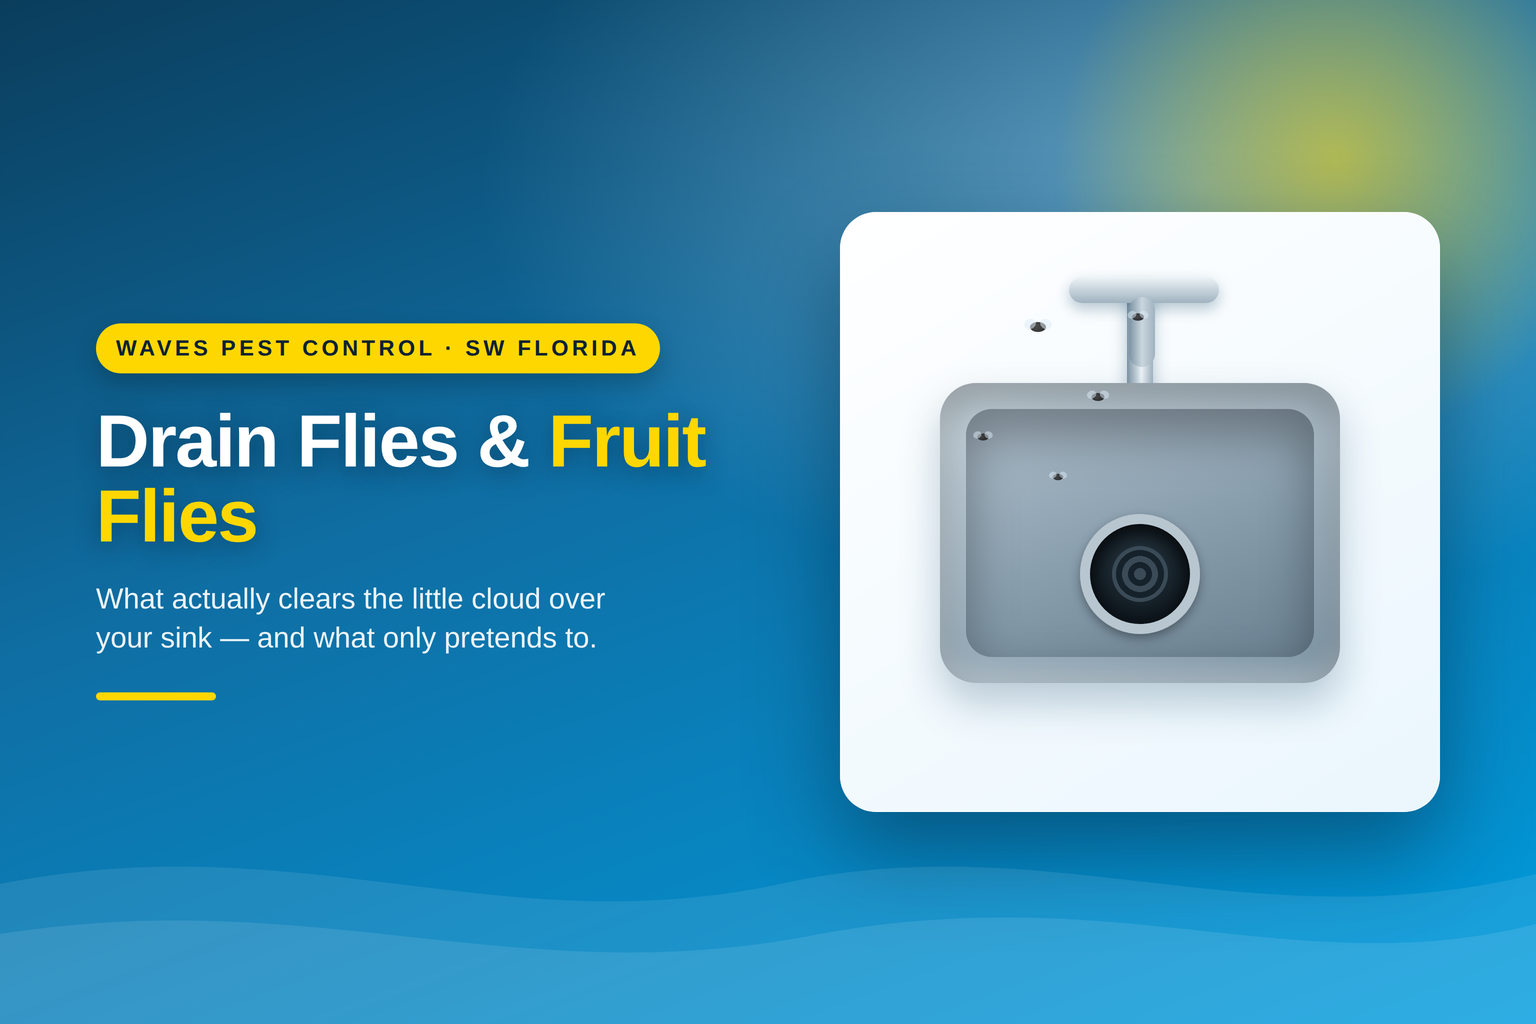
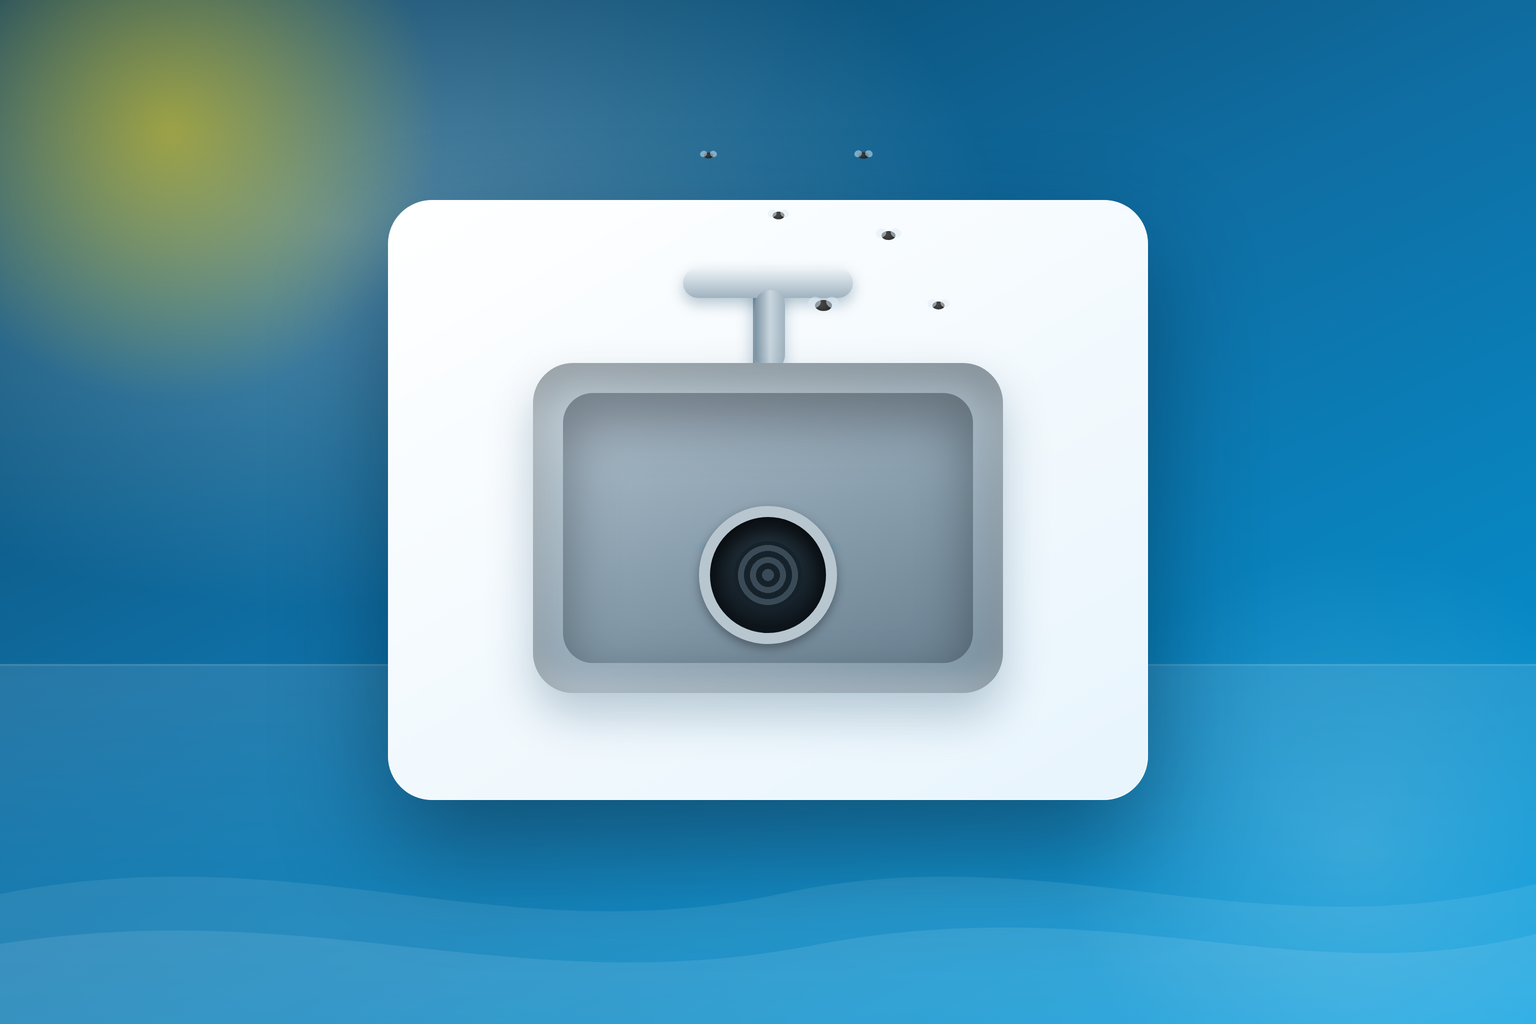
content(blog): address Codex review — compliance, safety, accuracy fixes
Applies the Codex findings on PR #3239:
- P1 remove active-ingredient assertion: genericize citronella to
  "plant/essential oil"; describe the class, not a named ingredient.
- P1 drop blanket "EPA-registered" claim (registration vs. 25b exemption
  is product-specific) — say "still insecticides, read the label".
- P1 remove Waves product-inventory claim ("professional-grade microbial
  product") — describe the approach, not carried inventory.
- P1 soften prevention promise: "never gets going" -> "far less likely".
- P1 add power-isolation safety step before scrubbing a disposal.
- P2 correct caustic-cleaner mechanism (saponifies grease; the real
  limitation is incomplete biofilm contact + hazard, not "flows past").
- P2 meta now distinguishes fruit fly (produce) vs drain fly (biofilm).
- P2 ComparisonTable highlight 1 -> 0 (emphasize the recommended option).
- P2 hero.md records the ACTUAL publisher prompt (no city, bare keyword);
  re-render hero text-free so the alt text matches (accessibility).
- P2 add early calculator CTA in the intro; add a pro-tip callout.
- P3 intro "three pests" -> "four" (matches the ID grid); trim FAQ to 3.

Re-verified locally: schema validator, content guardrails, title/meta
spam gate, comparison-table gate all pass; FAQPage schema still backed by
a visible FAQ section.

Claude-Session: https://claude.ai/code/session_01NNzhgdZ79ZhAjRzJvUmXva

diff --git a/docs/blog-drafts/enzyme-drain-cleaner-drain-flies-fruit-flies.hero.html b/docs/blog-drafts/enzyme-drain-cleaner-drain-flies-fruit-flies.hero.html
@@ -3,99 +3,77 @@
 <head>
 <meta charset="utf-8">
 <style>
-  :root{
-    --blue:#009CDE;
-    --blue-deep:#0a3d5c;
-    --gold:#FFD700;
-    --ink:#0b2233;
-  }
+  :root{--blue:#009CDE;--gold:#FFD700;--ink:#0b2233}
   *{margin:0;padding:0;box-sizing:border-box}
   html,body{width:1536px;height:1024px;overflow:hidden;font-family:-apple-system,BlinkMacSystemFont,"Segoe UI",Roboto,Helvetica,Arial,sans-serif}
-  .stage{
-    position:relative;width:1536px;height:1024px;
+  .stage{position:relative;width:1536px;height:1024px;overflow:hidden;
     background:
-      radial-gradient(1200px 700px at 78% 18%, rgba(255,255,255,.35), rgba(255,255,255,0) 60%),
-      linear-gradient(160deg,#0a3d5c 0%, #0f6ea3 42%, #009CDE 100%);
-    overflow:hidden;
-  }
-  /* soft sun glow */
-  .sun{position:absolute;top:-160px;right:-120px;width:640px;height:640px;border-radius:50%;
-    background:radial-gradient(circle at 50% 50%, rgba(255,215,0,.55), rgba(255,215,0,0) 62%);filter:blur(6px)}
-  /* subtle water ripples bottom */
-  .waves{position:absolute;left:0;right:0;bottom:0;height:320px;opacity:.5}
-  .waves svg{width:100%;height:100%}
-  /* the sink card */
-  .scene{position:absolute;right:96px;top:50%;transform:translateY(-50%);
-    width:600px;height:600px;border-radius:36px;
-    background:linear-gradient(150deg,#ffffff, #eaf6fd);
-    box-shadow:0 40px 90px rgba(4,28,48,.45), inset 0 0 0 1px rgba(255,255,255,.6);
-    display:flex;align-items:center;justify-content:center}
-  .counter{position:relative;width:520px;height:520px}
-  /* stainless basin */
-  .basin{position:absolute;left:50%;top:54%;transform:translate(-50%,-50%);
-    width:400px;height:300px;border-radius:36px;
+      radial-gradient(1100px 640px at 22% 22%, rgba(255,255,255,.30), rgba(255,255,255,0) 60%),
+      linear-gradient(155deg,#0a3d5c 0%, #0f6ea3 44%, #009CDE 100%);}
+  .sun{position:absolute;top:-180px;left:-140px;width:620px;height:620px;border-radius:50%;
+    background:radial-gradient(circle, rgba(255,215,0,.50), rgba(255,215,0,0) 62%);filter:blur(6px)}
+  .glow{position:absolute;right:-160px;bottom:-160px;width:680px;height:680px;border-radius:50%;
+    background:radial-gradient(circle, rgba(255,255,255,.16), rgba(255,255,255,0) 62%)}
+  .counter-plane{position:absolute;left:0;right:0;bottom:0;height:360px;
+    background:linear-gradient(180deg, rgba(255,255,255,.10), rgba(255,255,255,.02));
+    border-top:2px solid rgba(255,255,255,.18)}
+  .scene{position:absolute;left:50%;top:50%;transform:translate(-50%,-52%);
+    width:760px;height:600px;border-radius:44px;
+    background:linear-gradient(150deg,#ffffff,#e7f4fc);
+    box-shadow:0 50px 110px rgba(4,28,48,.48), inset 0 0 0 1px rgba(255,255,255,.6)}
+  .counter{position:absolute;left:50%;top:50%;transform:translate(-50%,-50%);width:600px;height:470px}
+  .basin{position:absolute;left:50%;top:56%;transform:translate(-50%,-50%);
+    width:470px;height:330px;border-radius:40px;
     background:linear-gradient(160deg,#c9d6de,#9fb2bf 55%,#7c93a3);
-    box-shadow:inset 0 18px 40px rgba(0,0,0,.28), inset 0 -10px 24px rgba(255,255,255,.35), 0 20px 40px rgba(10,61,92,.25)}
-  .basin:before{content:"";position:absolute;inset:26px;border-radius:26px;
+    box-shadow:inset 0 20px 46px rgba(0,0,0,.28), inset 0 -12px 26px rgba(255,255,255,.35), 0 22px 44px rgba(10,61,92,.25)}
+  .basin:before{content:"";position:absolute;inset:30px;border-radius:30px;
     background:linear-gradient(160deg,#aebecb,#8399a8 60%,#6a8090);
-    box-shadow:inset 0 24px 50px rgba(0,0,0,.35)}
-  /* drain */
-  .drain{position:absolute;left:50%;top:62%;transform:translate(-50%,-50%);
-    width:120px;height:120px;border-radius:50%;
+    box-shadow:inset 0 26px 54px rgba(0,0,0,.35)}
+  .water{position:absolute;left:50%;top:60%;transform:translate(-50%,-50%);
+    width:150px;height:8px;border-radius:8px;background:linear-gradient(90deg,rgba(255,255,255,0),rgba(0,156,222,.8),rgba(255,255,255,0));
+    filter:blur(1px);opacity:.7}
+  .drain{position:absolute;left:50%;top:66%;transform:translate(-50%,-50%);
+    width:138px;height:138px;border-radius:50%;
     background:radial-gradient(circle at 50% 40%, #2b3b47, #0e171d 70%);
-    box-shadow:inset 0 8px 20px rgba(0,0,0,.7), 0 4px 10px rgba(0,0,0,.35);border:10px solid #b8c6d0}
-  .drain:after{content:"";position:absolute;inset:22px;border-radius:50%;
+    box-shadow:inset 0 10px 22px rgba(0,0,0,.7), 0 4px 10px rgba(0,0,0,.35);border:11px solid #b8c6d0}
+  .drain:after{content:"";position:absolute;inset:24px;border-radius:50%;
     background:repeating-radial-gradient(circle, #3a4a56 0 6px, #16222b 6px 12px)}
-  /* faucet */
-  .faucet{position:absolute;left:50%;top:6%;transform:translateX(-50%);width:26px;height:150px;border-radius:14px;
+  .faucet{position:absolute;left:50%;top:2%;transform:translateX(-50%);width:30px;height:150px;border-radius:15px;
     background:linear-gradient(90deg,#7c93a3,#c9d6de 40%,#eef4f8 55%,#9fb2bf);box-shadow:0 6px 16px rgba(10,61,92,.3)}
-  .faucet:before{content:"";position:absolute;top:-6px;left:-58px;width:150px;height:26px;border-radius:14px;
+  .faucet:before{content:"";position:absolute;top:-6px;left:-70px;width:170px;height:30px;border-radius:15px;
     background:linear-gradient(180deg,#eef4f8,#9fb2bf);box-shadow:0 6px 14px rgba(10,61,92,.28)}
-  .faucet:after{content:"";position:absolute;top:14px;right:-2px;width:26px;height:70px;border-radius:14px;
+  .faucet:after{content:"";position:absolute;top:16px;right:-2px;width:30px;height:80px;border-radius:15px;
     background:linear-gradient(90deg,#7c93a3,#c9d6de 50%,#9fb2bf)}
-  /* little flies */
-  .fly{position:absolute;width:16px;height:10px;border-radius:50%;
-    background:radial-gradient(circle at 40% 40%, #3a3a3a, #111);opacity:.9}
-  .fly:before,.fly:after{content:"";position:absolute;top:-3px;width:12px;height:10px;border-radius:50%;
-    background:rgba(220,235,245,.55)}
-  .fly:before{left:-6px;transform:rotate(-24deg)}
-  .fly:after{right:-6px;transform:rotate(24deg)}
-  .f1{left:150px;top:70px} .f2{left:210px;top:140px;transform:scale(.8)}
-  .f3{left:95px;top:180px;transform:scale(.7)} .f4{left:250px;top:60px;transform:scale(.75)}
-  .f5{left:170px;top:220px;transform:scale(.65)}
-  /* text block */
-  .copy{position:absolute;left:96px;top:50%;transform:translateY(-50%);width:640px;color:#fff}
-  .kicker{display:inline-block;font-size:22px;font-weight:800;letter-spacing:.16em;text-transform:uppercase;
-    color:var(--ink);background:var(--gold);padding:12px 20px;border-radius:999px;box-shadow:0 10px 24px rgba(0,0,0,.2)}
-  h1{margin-top:30px;font-size:74px;line-height:1.02;font-weight:850;letter-spacing:-.02em;
-    text-shadow:0 6px 24px rgba(4,28,48,.4)}
-  h1 .accent{color:var(--gold)}
-  .sub{margin-top:26px;font-size:29px;line-height:1.35;font-weight:500;color:rgba(255,255,255,.92);max-width:560px}
-  .rule{margin-top:34px;width:120px;height:8px;border-radius:8px;background:var(--gold)}
+  .fly{position:absolute;width:17px;height:11px;border-radius:50%;
+    background:radial-gradient(circle at 40% 40%, #3a3a3a, #111);opacity:.92;z-index:5}
+  .fly:before,.fly:after{content:"";position:absolute;top:-3px;width:13px;height:11px;border-radius:50%;background:rgba(220,235,245,.55)}
+  .fly:before{left:-7px;transform:rotate(-24deg)} .fly:after{right:-7px;transform:rotate(24deg)}
+  .f1{left:815px;top:300px} .f2{left:880px;top:230px;transform:scale(.82)}
+  .f3{left:770px;top:210px;transform:scale(.7)} .f4{left:930px;top:300px;transform:scale(.72)}
+  .f5{left:855px;top:150px;transform:scale(.6)} .f6{left:700px;top:150px;transform:scale(.55)}
+  .waves{position:absolute;left:0;right:0;bottom:0;height:300px;opacity:.5}
+  .waves svg{width:100%;height:100%}
 </style>
 </head>
 <body>
   <div class="stage">
     <div class="sun"></div>
-    <div class="copy">
-      <span class="kicker">Waves Pest Control · SW Florida</span>
-      <h1>Drain Flies &amp; <span class="accent">Fruit Flies</span></h1>
-      <div class="sub">What actually clears the little cloud over your sink — and what only pretends to.</div>
-      <div class="rule"></div>
-    </div>
+    <div class="glow"></div>
+    <div class="counter-plane"></div>
     <div class="scene">
       <div class="counter">
         <div class="faucet"></div>
         <div class="basin"></div>
+        <div class="water"></div>
         <div class="drain"></div>
-        <div class="fly f1"></div><div class="fly f2"></div><div class="fly f3"></div>
-        <div class="fly f4"></div><div class="fly f5"></div>
       </div>
     </div>
+    <div class="fly f1"></div><div class="fly f2"></div><div class="fly f3"></div>
+    <div class="fly f4"></div><div class="fly f5"></div><div class="fly f6"></div>
     <div class="waves">
-      <svg viewBox="0 0 1536 320" preserveAspectRatio="none" xmlns="http://www.w3.org/2000/svg">
-        <path d="M0,180 C300,120 500,240 780,180 C1050,120 1250,240 1536,170 L1536,320 L0,320 Z" fill="rgba(255,255,255,.18)"/>
-        <path d="M0,230 C320,180 520,290 820,230 C1120,175 1300,280 1536,220 L1536,320 L0,320 Z" fill="rgba(255,255,255,.22)"/>
+      <svg viewBox="0 0 1536 300" preserveAspectRatio="none" xmlns="http://www.w3.org/2000/svg">
+        <path d="M0,170 C300,110 500,230 780,170 C1050,110 1250,230 1536,160 L1536,300 L0,300 Z" fill="rgba(255,255,255,.16)"/>
+        <path d="M0,220 C320,170 520,280 820,220 C1120,165 1300,270 1536,210 L1536,300 L0,300 Z" fill="rgba(255,255,255,.20)"/>
       </svg>
     </div>
   </div>

diff --git a/docs/blog-drafts/enzyme-drain-cleaner-drain-flies-fruit-flies.hero.md b/docs/blog-drafts/enzyme-drain-cleaner-drain-flies-fruit-flies.hero.md
@@ -13,12 +13,23 @@ reproducible and matches the frontmatter already in the `.mdx`.
 - **Mode:** `blog-hero` (1536×1024, 3:2, compressed to WebP by the publisher)
 - **Provider chain (default):** `gpt-image-2,gpt-image-1.5,gpt-image-1,gemini`
 
-**Generation prompt** (from `image-generator.buildPrompt`, city = Bradenton):
+**Generation prompt — exactly what the publisher emits.** `generateHeroBuffer(post)`
+in `astro-publisher.js` calls `image-generator.generate` with `{ title, topic:
+meta_description, keyword: post.keyword, mode: 'blog-hero' }` and **no city**, so
+`buildPrompt` produces the generic SWFL setting and takes the subject straight
+from the primary keyword. This is the reproducible prompt (verified by running
+`buildPrompt` against these exact inputs):
 
-> A high-quality, photorealistic blog hero image for a Southwest Florida pest control & lawn care business named "Waves Pest Control." Subject: enzyme drain cleaner for drain flies around a kitchen sink. Setting: a Bradenton-area home or yard with characteristic SWFL landscaping (palm trees, sandy soil, bright sun). Composition: landscape 3:2 aspect ratio, 1536x1024. Style: bright, clean, professional. Sunny coastal light with a deep-blue sky and warm golden accents (brand palette: blue #009CDE, gold #FFD700 — no teal color cast). No text, words, watermarks, or logos in the image.
+> A high-quality, photorealistic blog hero image for a Southwest Florida pest control & lawn care business named "Waves Pest Control." Subject: enzyme drain cleaner for drain flies. Setting: SWFL residential — palm trees, tropical landscaping, sunny afternoon. Composition: landscape 3:2 aspect ratio, 1536x1024. Style: bright, clean, professional. Sunny coastal light with a deep-blue sky and warm golden accents (brand palette: blue #009CDE, gold #FFD700 — no teal color cast). No text, words, watermarks, or logos in the image.
 
-**Alt text** (frontmatter uses a sink-focused variant that matches the subject;
-the publisher may overwrite with the vision-derived alt after generation):
+**Optional art-directed upgrade** (if you generate the hero by hand rather than
+through the publisher, you can pass a richer subject/setting): swap the Subject
+for `enzyme drain cleaner for drain flies around a kitchen sink` and the Setting
+for `a Bradenton-area kitchen with a stainless sink, bright SWFL light`. This is
+NOT what the automated publisher generates — it's a manual enhancement.
+
+**Alt text** (frontmatter describes the sink/drain scene; the publisher may
+overwrite with the vision-derived alt after generation):
 
 > Bright Southwest Florida kitchen sink and drain, illustrating enzyme drain cleaner treatment for fruit flies and drain flies.
 
@@ -27,9 +38,13 @@ the publisher may overwrite with the vision-derived alt after generation):
 Since the photorealistic AI generation step needs the OpenAI/Gemini keys that
 only exist on Railway, this folder ALSO ships a ready-to-use branded hero
 rendered here with headless Chromium (source: `*.hero.html`, rendered via
-`playwright` + `sharp`):
+`playwright` + `sharp`). It's a **text-free** illustration — a stainless sink
+and drain with a few flies rising, on the Waves blue/gold gradient — so it
+carries no baked-in wording and the frontmatter alt text describes it
+accurately (important for screen readers, and consistent with the brand rule
+that hero images carry no text or logos):
 
-- `*.hero.webp` — 1536×1024, 3:2, WebP (~38KB) — drop-in usable as the hero.
+- `*.hero.webp` — 1536×1024, 3:2, WebP — drop-in usable as the hero.
 - `*.hero.png` — same image, lossless PNG, if you want to edit it.
 - `*.hero.html` — the editable source; re-render at any size.
 
